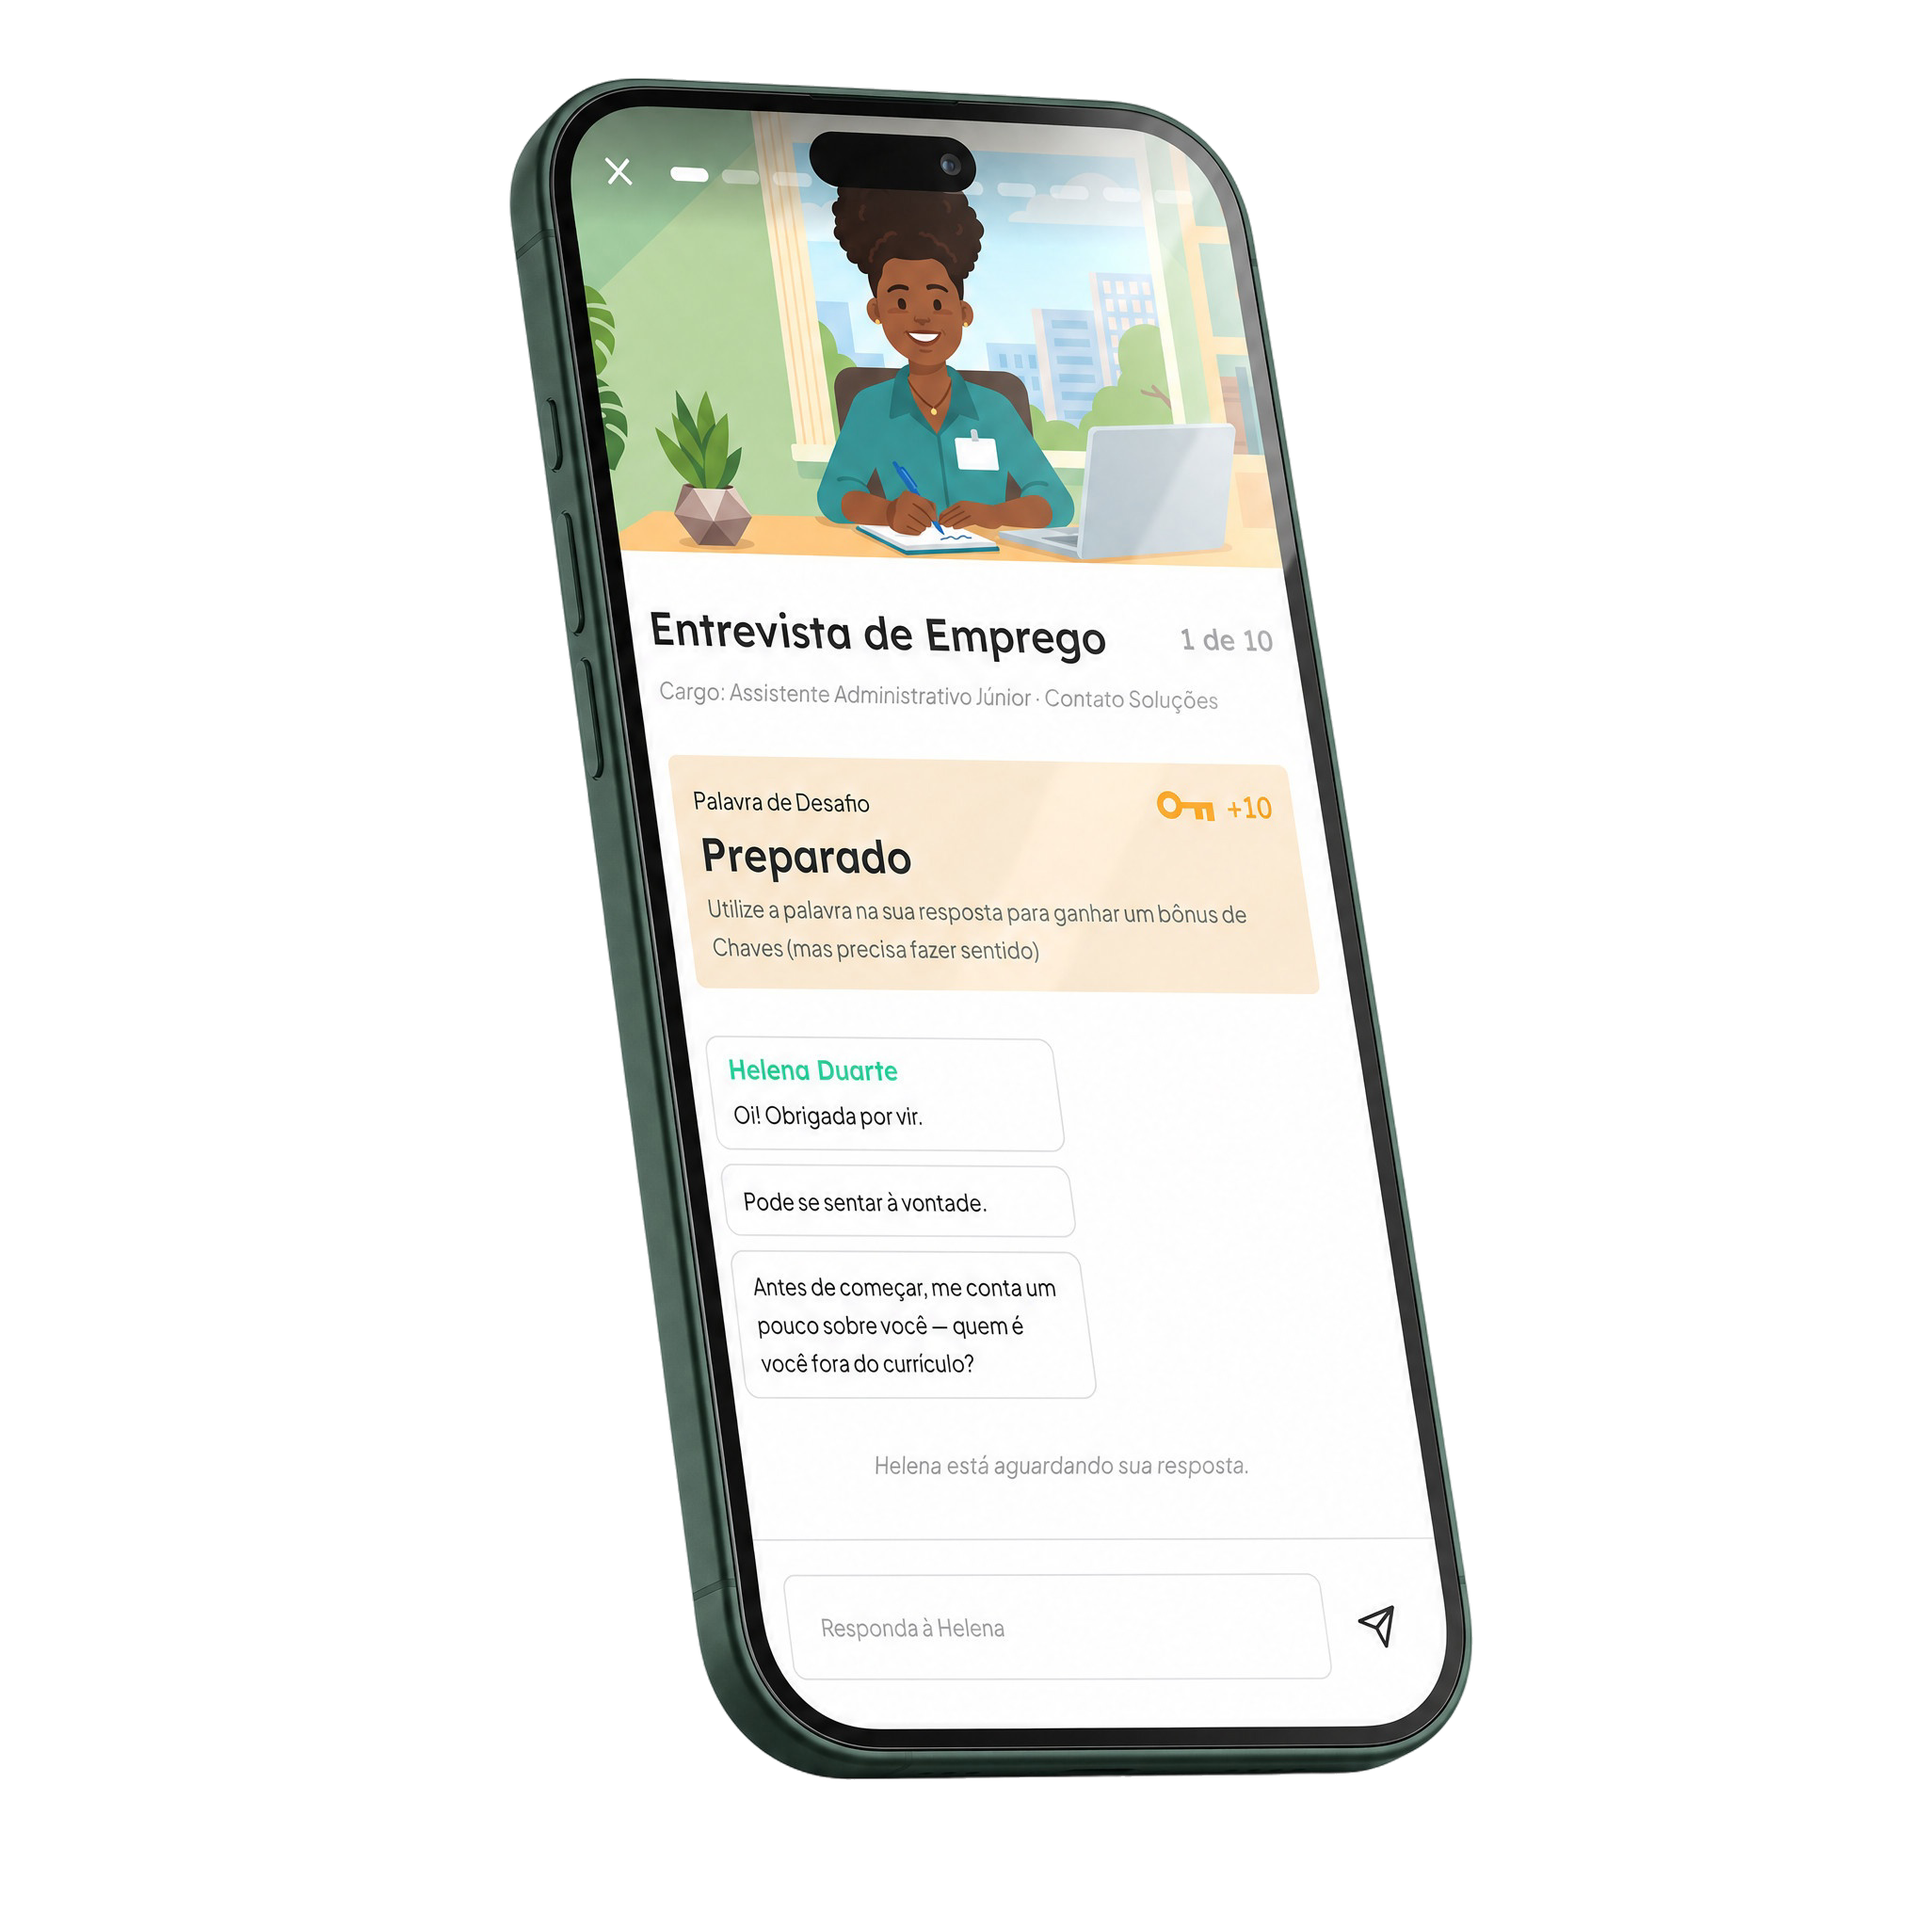
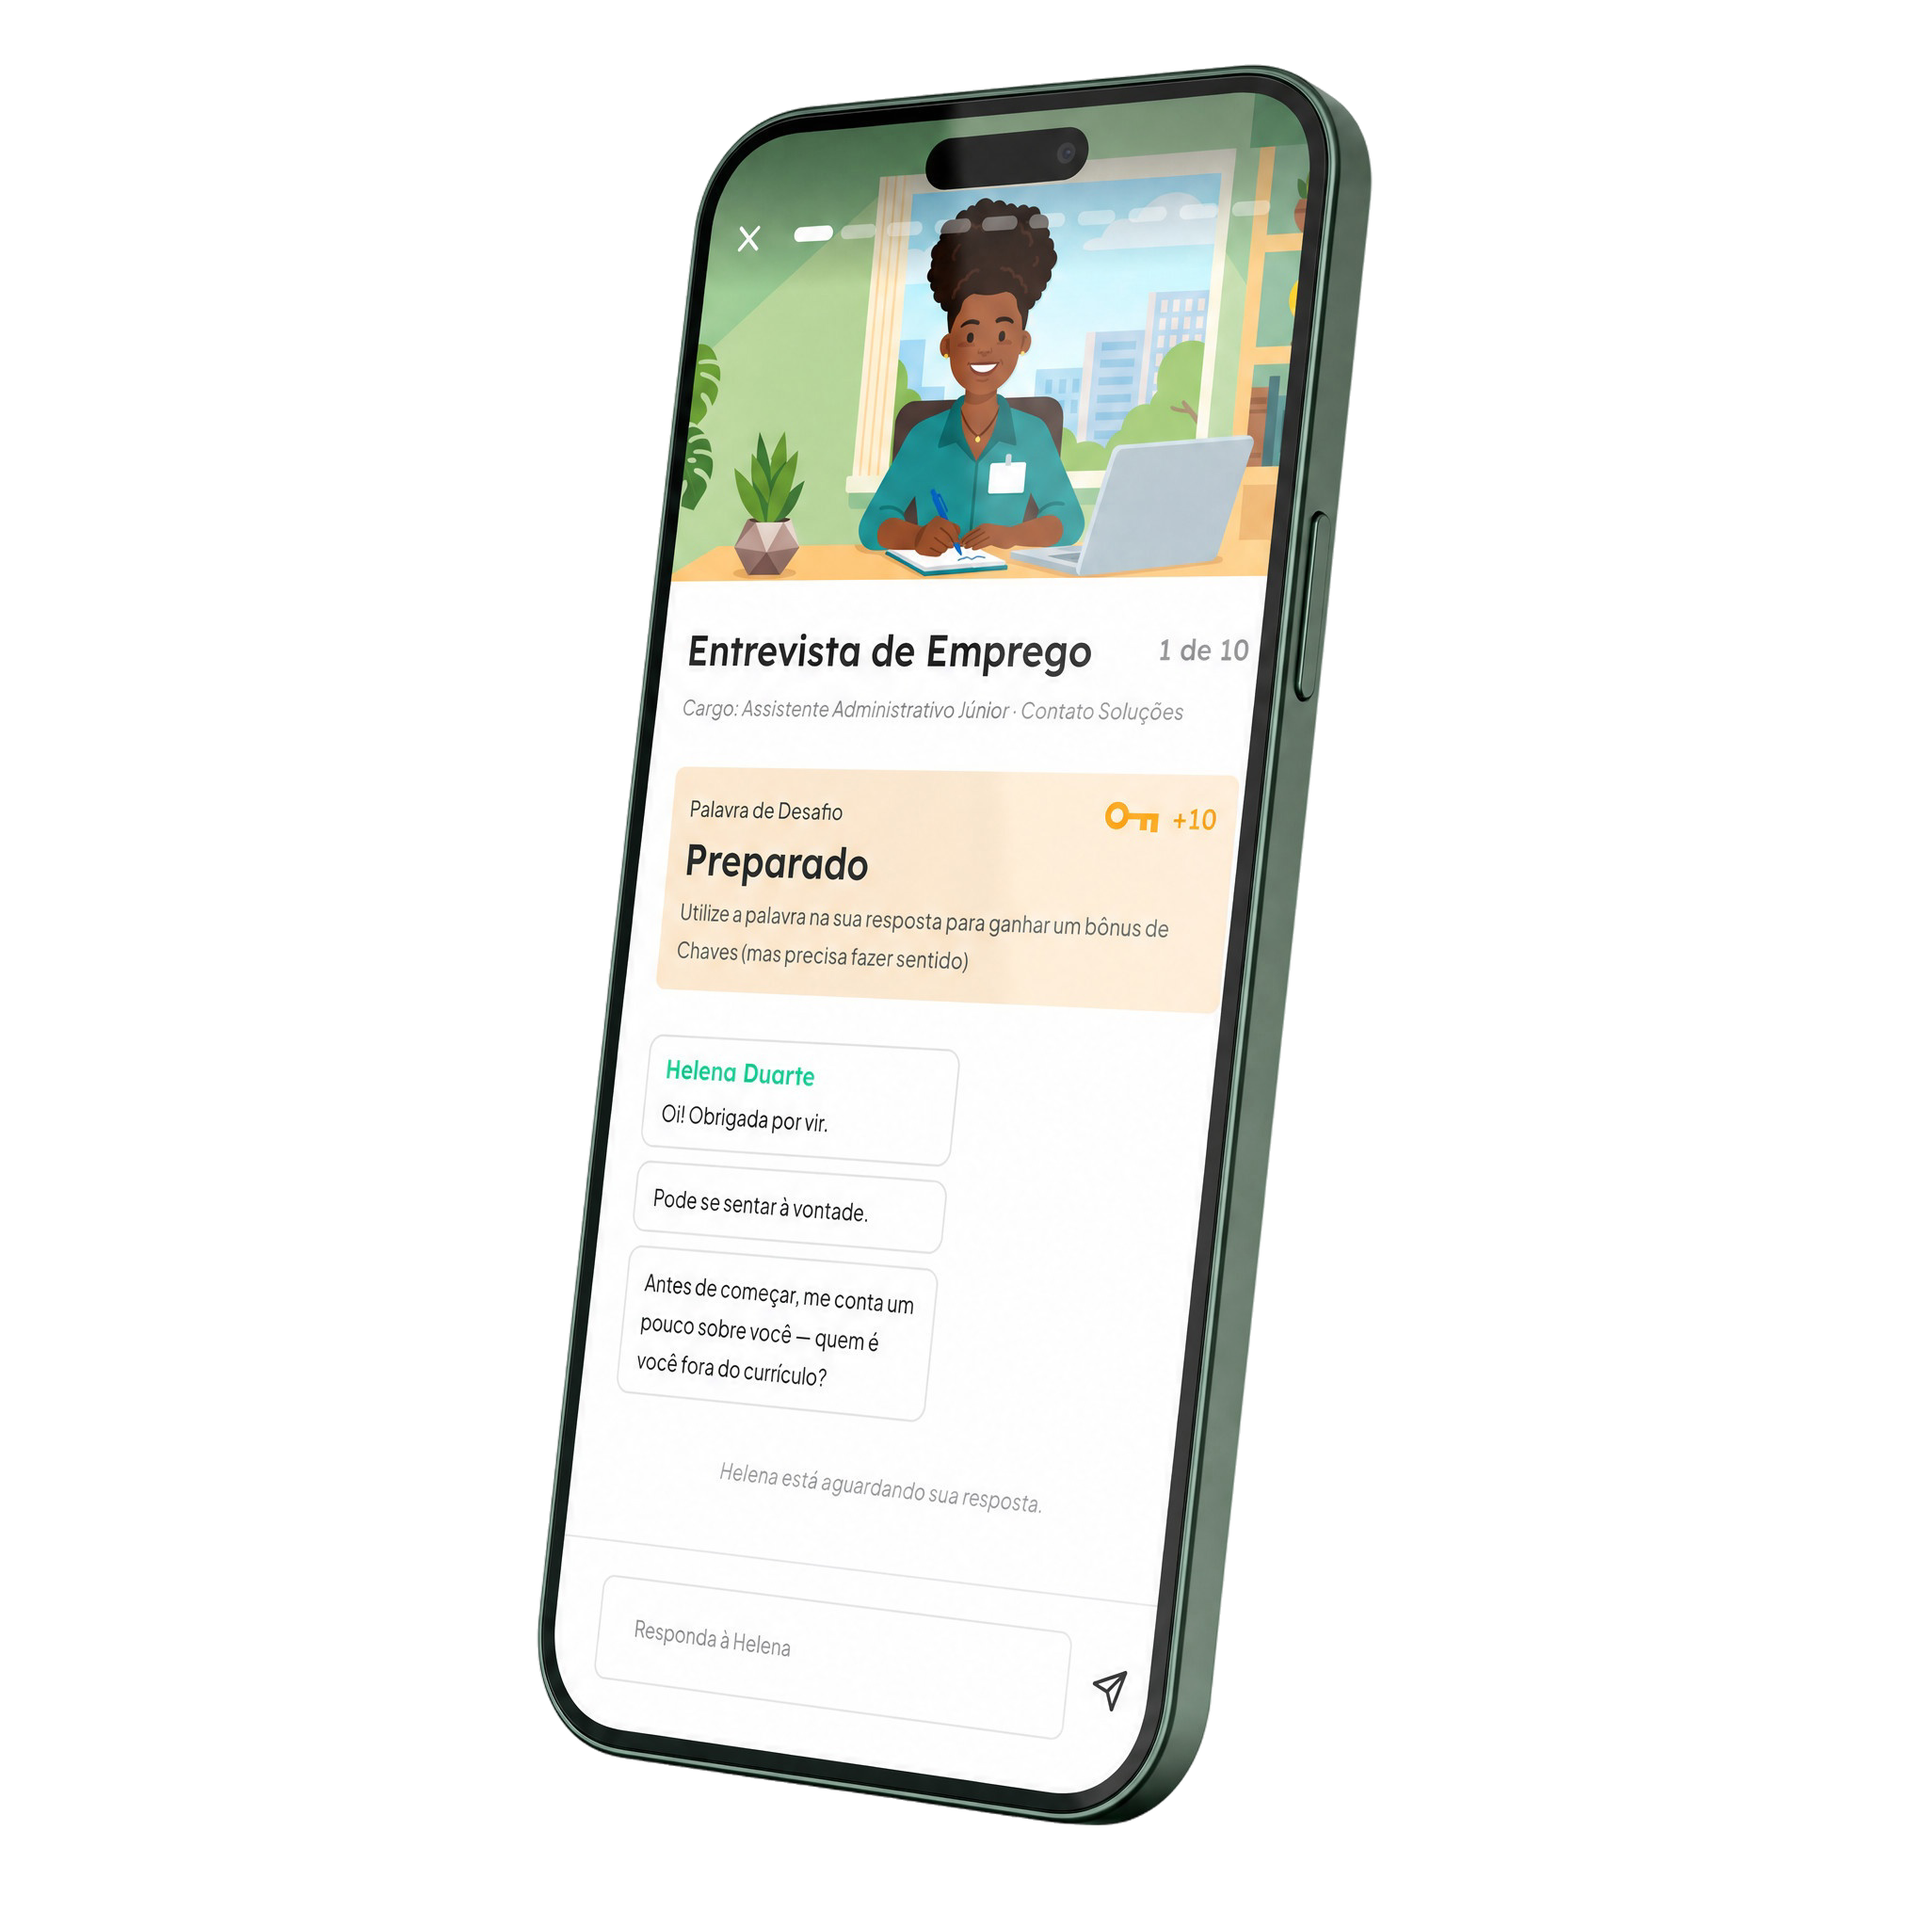
feat: aparelho do hero vira para o outro lado e ganha um splash atrás
Render refeito com a câmera à direita do aparelho: a lateral direita é a que
fica perto do observador. Espelhar o arquivo anterior seria de graça, mas
inverteria o texto da interface junto.

O splash é desenho e não imagem: forma chapada de uma cor só cabe em algumas
centenas de bytes, a cor sai do token em vez de ficar cozida no arquivo, e a
borda continua limpa em qualquer densidade. O contorno saiu de doze raios por
ângulo suavizados com Catmull-Rom convertido em cúbicas — é a curva contínua
que dá leitura de líquido; com quadráticas soltas os mesmos pontos saem como
polígono arredondado.

Changed region(s): [[0.25, 0.0312, 0.7812, 0.9688]]

diff --git a/src/components/Hero.tsx b/src/components/Hero.tsx
@@ -106,6 +106,41 @@ export default function Hero() {
   )
 }
 
+/**
+ * Campo chapado atrás da composição, no lugar de um fundo retangular.
+ *
+ * É desenho, e não imagem gerada, por três razões práticas: forma de uma cor só
+ * cabe em algumas centenas de bytes contra dezenas de KB de raster, a cor sai
+ * do token em vez de ficar cozida no arquivo, e a borda continua limpa em
+ * qualquer densidade de tela.
+ *
+ * O contorno saiu de doze raios por ângulo suavizados com Catmull-Rom
+ * convertido em cúbicas — é a curva contínua que dá a leitura de líquido; com
+ * quadráticas soltas o mesmo conjunto de pontos sai como polígono arredondado.
+ * As gotas em volta são o que faz ler como respingo e não como mancha.
+ *
+ * Fica atrás de tudo (`z-0` contra o `z-[1]` do aparelho e o `z-10` dos
+ * ícones), e `overflow-visible` porque as gotas moram fora da caixa do miolo.
+ */
+function Splash() {
+  return (
+    <svg
+      viewBox="0 0 500 500"
+      className="absolute left-1/2 top-1/2 z-0 h-auto w-[96%] -translate-x-1/2 -translate-y-1/2 text-mint"
+      fill="currentColor"
+      aria-hidden="true"
+    >
+      <path d="M250 60 C277.4 62.5 301.3 98.8 327.9 115.1 C354.5 131.4 399.2 135.4 409.6 157.9 C420.1 180.3 389.2 218.5 390.6 250 C392 281.5 427.7 323.3 417.8 346.9 C408 370.5 359.7 385.5 331.7 391.5 C303.7 397.5 278.7 380.5 250 383 C221.3 385.5 181.4 416 159.7 406.3 C138.1 396.7 136.6 351.1 120 325.1 C103.4 299 61.4 275.8 60 250 C58.6 224.2 94.5 195.2 111.8 170.2 C129 145.2 140.5 118.6 163.5 100.3 C186.6 81.9 222.6 57.5 250 60 Z" />
+      <circle cx="353.3" cy="38.2" r="15" />
+      <circle cx="459.6" cy="334.7" r="21" />
+      <circle cx="225" cy="488.1" r="12" />
+      <circle cx="36.8" cy="336.1" r="17" />
+      <circle cx="40.5" cy="119.1" r="10" />
+      <circle cx="311.3" cy="36.3" r="13" />
+    </svg>
+  )
+}
+
 function HeroArt({ className = '' }: { className?: string }) {
   return (
     /*
@@ -119,6 +154,8 @@ function HeroArt({ className = '' }: { className?: string }) {
     <div
       className={`relative -mx-5 w-auto sm:mx-auto sm:w-full sm:max-w-[34rem] lg:mr-[-3.5rem] lg:max-w-none ${className}`}
     >
+      <Splash />
+
       {/* Sem `mix-blend-multiply` e sem `fade-bottom`, ao contrário da
           ilustração que saiu daqui: o recorte tem alfa de verdade, então não
           precisa do truque de blend para dissolver fundo branco, e uma máscara
@@ -126,7 +163,7 @@ function HeroArt({ className = '' }: { className?: string }) {
       <img
         src={celularSimulacao}
         alt="Um celular inclinado mostrando a Simulação do Destrava: uma entrevista de emprego em andamento, com a entrevistadora no topo e a conversa embaixo"
-        className="w-full"
+        className="relative z-[1] w-full"
         width={1024}
         height={1024}
         fetchPriority="high"
